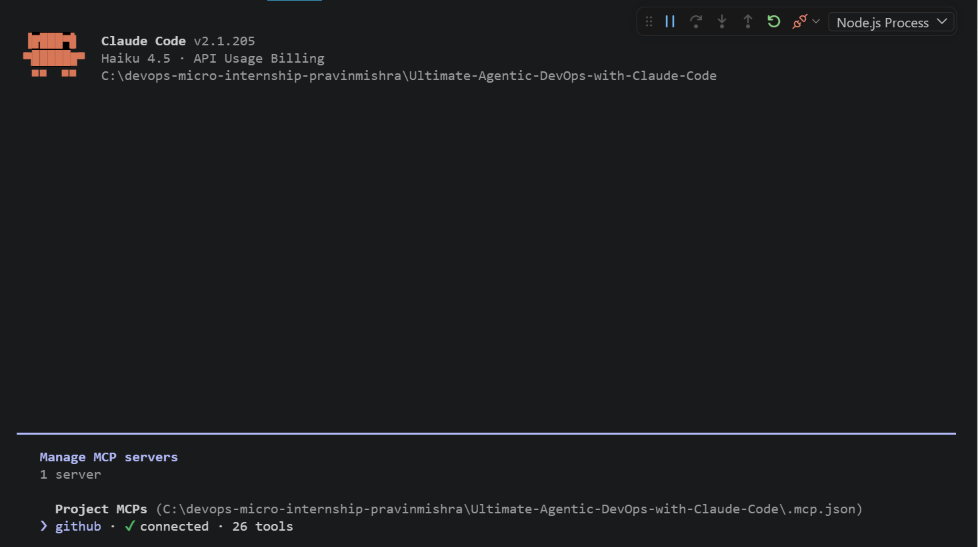
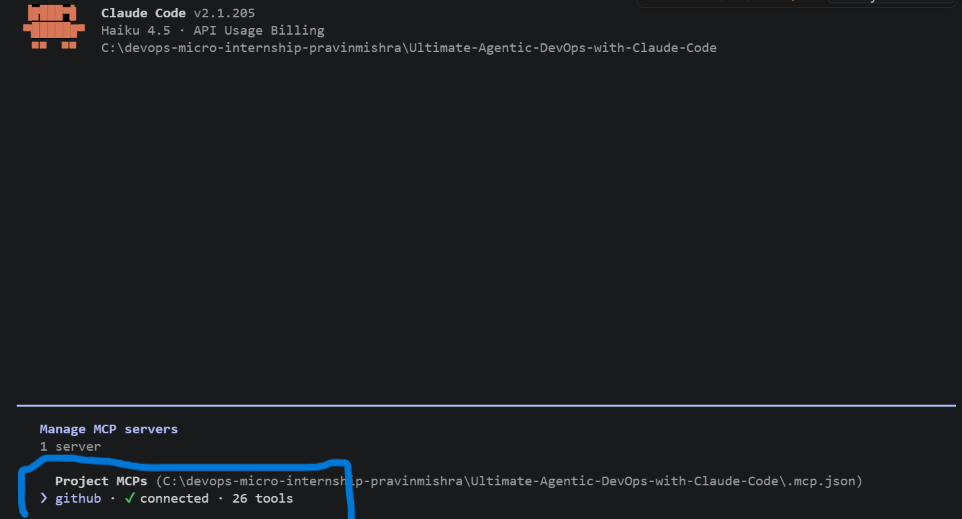
week-2 assg-02

Changed region(s): [[0.0, 0.0, 1.0, 1.0], [0.0, 0.0, 0.7484, 0.1541], [0.7796, 0.0308, 0.9667, 0.0617]]

diff --git a/week-02-agentic-ai/solution-assignment-05-mcp.md b/week-02-agentic-ai/solution-assignment-05-mcp.md
@@ -20,7 +20,8 @@ Generate a GitHub Personal Access Token (PAT) that will be used for MCP authenti
 
 #### Screenshot 1 — GitHub token creation page showing the selected scopes (`repo`, `read:user`) — token value must NOT be visible
 
-Add your screenshot here.
+![alt text](screenshots/37.png)
+![alt text](screenshots/38.png)
 
 ---
 
@@ -34,7 +35,7 @@ Create and configure the `.mcp.json` file to define the GitHub MCP server.
 
 #### Screenshot 2 — `.mcp.json` open in VS Code showing the full configuration
 
-Add your screenshot here.
+![alt text](screenshots/40.png)
 
 ---
 
@@ -47,8 +48,7 @@ Store your GitHub token securely in `.claude/settings.local.json` and ensure it 
 ### Evidence
 
 #### Screenshot 3 — `settings.local.json` open in VS Code showing the `env` section — **blur or cover the actual GitHub token value**
-
-Add your screenshot here.
+![alt text](screenshots/41.png)
 
 ---
 
@@ -62,7 +62,7 @@ Confirm that the GitHub MCP server is successfully connected inside Claude Code.
 
 #### Screenshot 4 — `/mcp` output showing `github: connected`
 
-Add your screenshot here.
+![alt text](screenshots/42.png)
 
 ---
 
@@ -76,8 +76,8 @@ Verify MCP functionality by retrieving real-time data from your GitHub account u
 
 #### Screenshot 5 — Claude's response showing the GitHub MCP tool call and the retrieved README.md content.
 
-Add your screenshot here.
-
+![alt text](screenshots/43.png)
+![alt text](screenshots/44.png)
 ---
 
 # Submission Instructions
@@ -94,7 +94,7 @@ Add your screenshot here.
 
 Paste your forked repository URL here:
 
-`__________________________`
+`https://github.com/pravinmishraaws/devops-micro-internship-pravinmishra/blob/main/week-02-agentic-ai/solution-assignment-05-mcp.md`
 
 ---
 